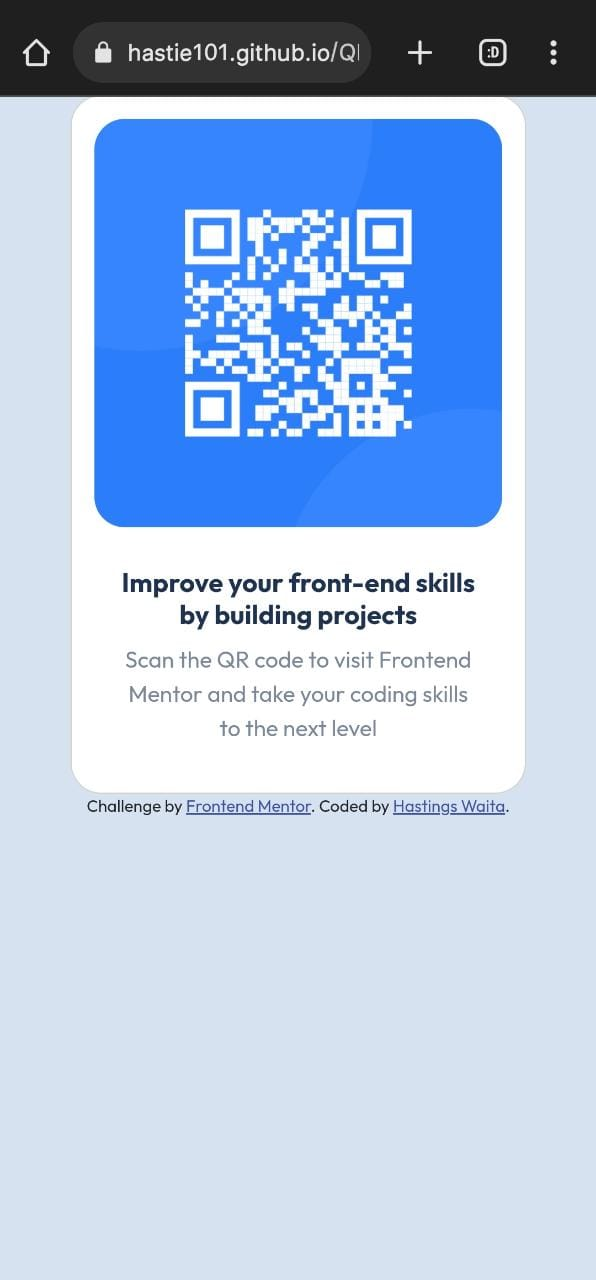
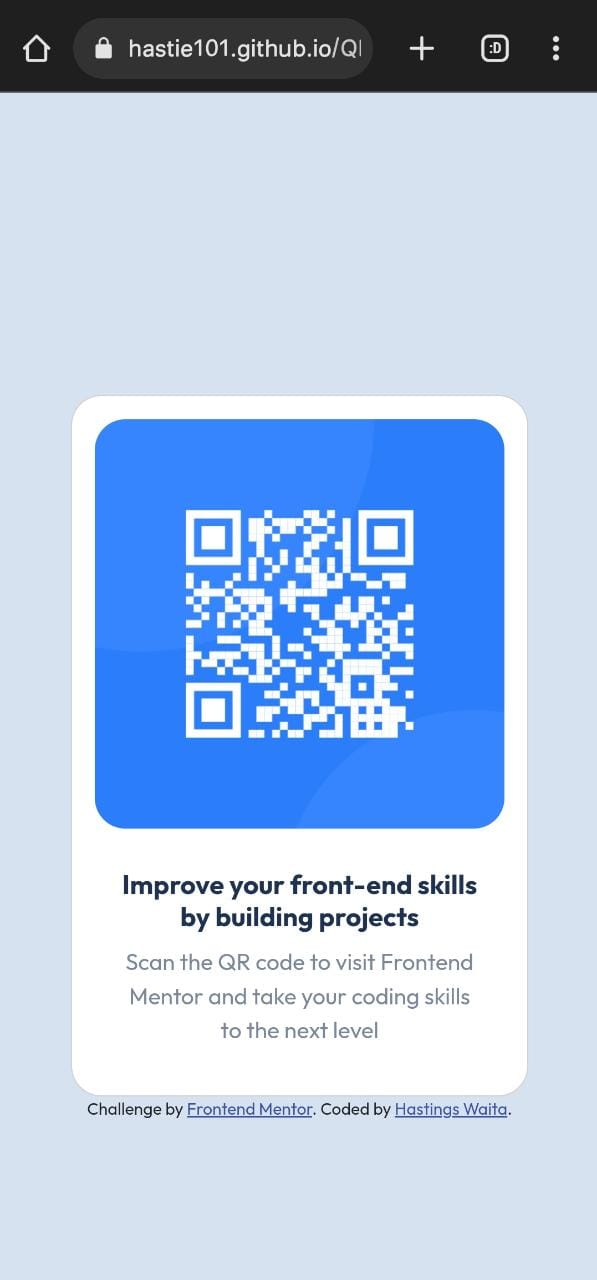
CSS update

diff --git a/style.css b/style.css
@@ -8,6 +8,9 @@
 
 *{
     font-family: 'Outfit', sans-serif;
+    margin: 0;
+    padding: 0;
+    box-sizing: border-box;
 
 }
 
@@ -19,8 +22,8 @@ body{
     align-items: center;
     flex: content;
     position: relative;
-    height: calc(100vh - 1px);
-    margin: 1.25rem;
+    height: calc(100vh - 2px);
+    /* margin: 1.25rem; */
 }
 
 .container{
